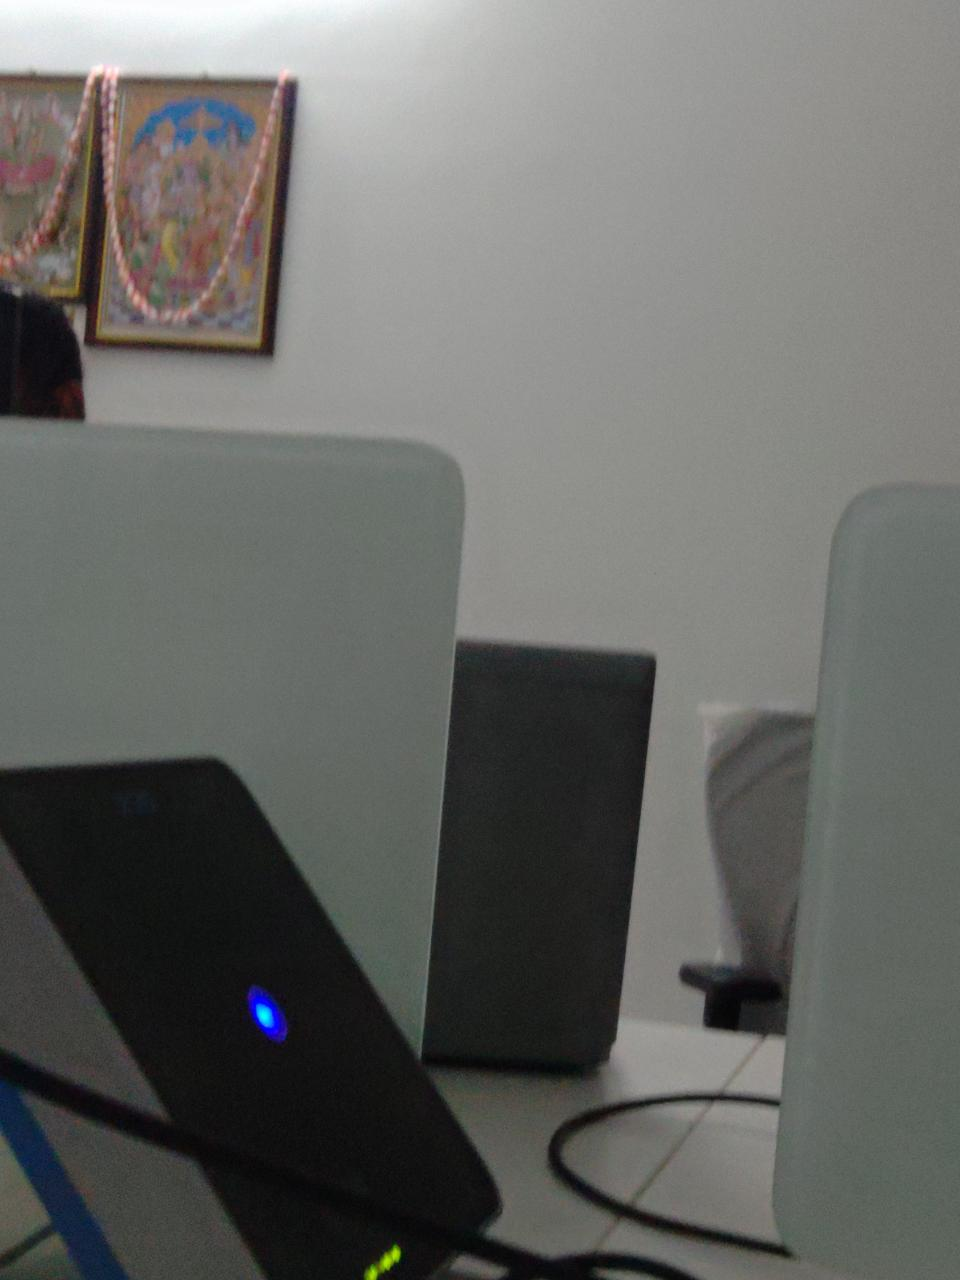
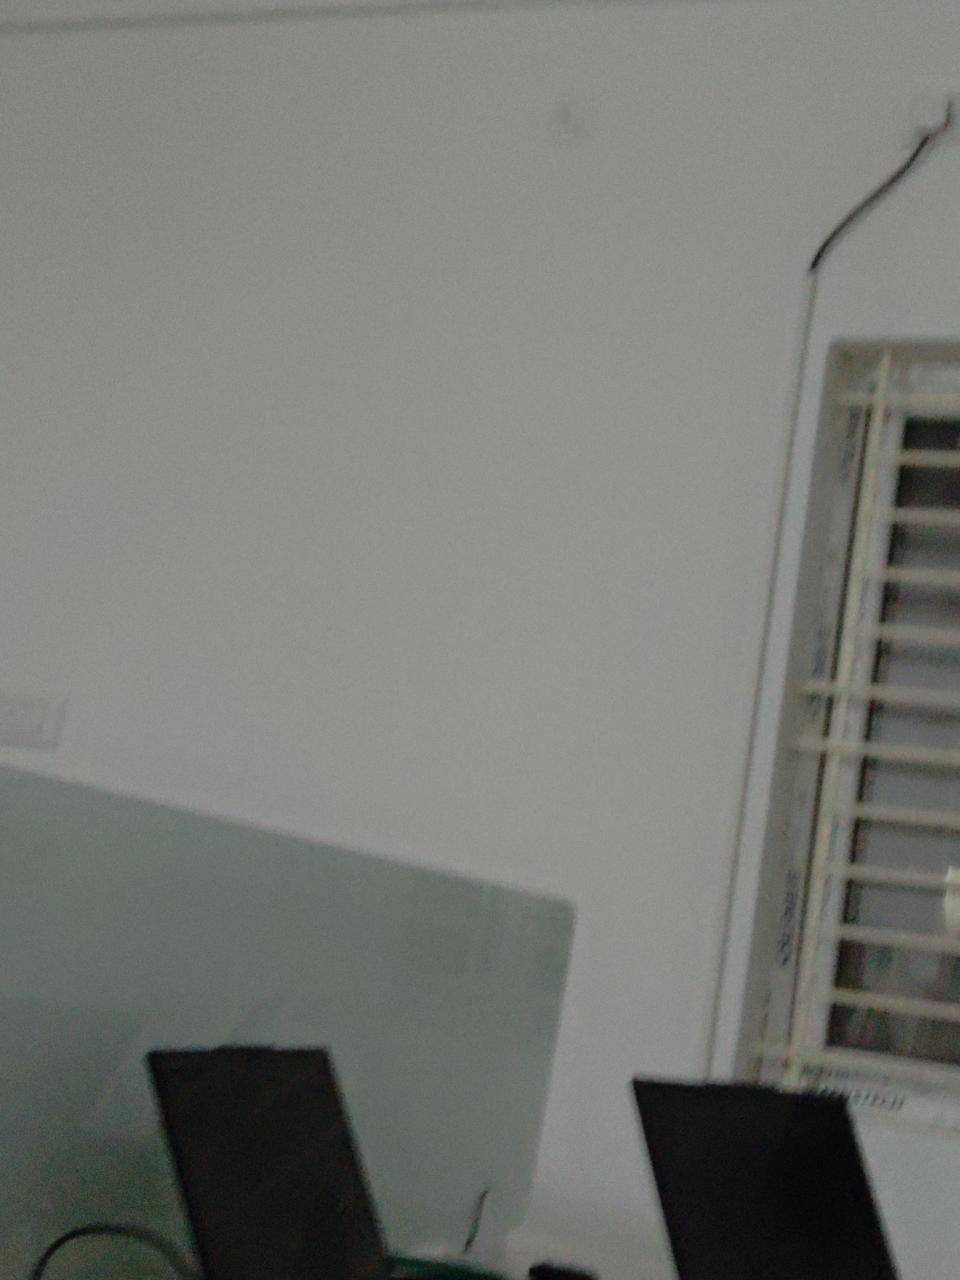
removed the static data in dashboard

diff --git a/frontend/src/components/dashboard/SevenDayStackedTransactionsChart.tsx b/frontend/src/components/dashboard/SevenDayStackedTransactionsChart.tsx
@@ -10,19 +10,29 @@ import { useAppTheme } from '../../context/ThemeContext';
 
 const { Option } = Select;
 
-// Distinct harmonious color palette for Material Codes
-const MATERIAL_COLOR_MAP: Record<string, { color: string; label: string }> = {
-  'WAK-MAT-787208': { color: '#E53935', label: 'Orthopaedic King Mattress' },
-  'WAK-SOF-NAP-3ST': { color: '#1E3A5F', label: 'Napper 3-Seater Sofa' },
-  'WAK-REC-MOT-BRN': { color: '#D97706', label: 'Motorized Single Recliner' },
-  'WAK-BED-TEK-QN': { color: '#8B5CF6', label: 'Teak Wood Queen Bed' },
-  'WAK-PIL-MEM-STD': { color: '#0284C7', label: 'Cooling Gel Memory Pillow' },
-  'WAK-MAT-727206': { color: '#10B981', label: 'Orthopaedic Queen Mattress' },
-  'WAK-MAT-756006': { color: '#EC4899', label: 'Dual Comfort Foam Mattress' },
-  'WAK-SOF-CHS-3ST': { color: '#6366F1', label: 'Chesterfield Velvet Sofa' },
-};
+// Distinct harmonious color palette for dynamically assigning colors to any material code
+const COLOR_PALETTE = [
+  '#E53935', '#1E3A5F', '#D97706', '#8B5CF6', 
+  '#0284C7', '#10B981', '#EC4899', '#6366F1',
+  '#F59E0B', '#14B8A6', '#84CC16', '#A855F7',
+  '#06B6D4', '#F43F5E', '#3B82F6', '#64748B'
+];
 
-const DEFAULT_COLOR = '#64748B';
+function getMaterialMeta(materialCode: string, masterDataList: any[]) {
+  const item = masterDataList.find(m => m.materialCode === materialCode);
+  const label = item?.productDescription || item?.model || item?.productName || materialCode;
+  
+  // Deterministic color assignment based on hash of material code
+  let hash = 0;
+  for (let i = 0; i < materialCode.length; i++) {
+    hash = materialCode.charCodeAt(i) + ((hash << 5) - hash);
+  }
+  const colorIndex = Math.abs(hash) % COLOR_PALETTE.length;
+  return {
+    color: COLOR_PALETTE[colorIndex],
+    label,
+  };
+}
 
 export const SevenDayStackedTransactionsChart: React.FC = () => {
   const { marriedTransactions, masterData } = useData();
@@ -43,7 +53,7 @@ export const SevenDayStackedTransactionsChart: React.FC = () => {
     return Array.from(codes);
   }, [masterData, marriedTransactions]);
 
-  // Generate 7 Days data array ending on today
+  // Generate 7 Days data array ending on today strictly from real transactions
   const sevenDayData = useMemo(() => {
     const days: {
       dateStr: string;        // '2026-08-31'
@@ -54,17 +64,6 @@ export const SevenDayStackedTransactionsChart: React.FC = () => {
       totalTransactions: number;
     }[] = [];
 
-    // Pre-calculated realistic baseline distribution per day for rich multi-day trends
-    const baselineDistribution: Record<number, Record<string, number>> = {
-      6: { 'WAK-MAT-787208': 68, 'WAK-SOF-NAP-3ST': 45, 'WAK-REC-MOT-BRN': 32, 'WAK-BED-TEK-QN': 28, 'WAK-PIL-MEM-STD': 25, 'WAK-MAT-727206': 18 },
-      5: { 'WAK-MAT-787208': 74, 'WAK-SOF-NAP-3ST': 52, 'WAK-REC-MOT-BRN': 38, 'WAK-BED-TEK-QN': 31, 'WAK-PIL-MEM-STD': 29, 'WAK-MAT-727206': 22 },
-      4: { 'WAK-MAT-787208': 82, 'WAK-SOF-NAP-3ST': 58, 'WAK-REC-MOT-BRN': 41, 'WAK-BED-TEK-QN': 36, 'WAK-PIL-MEM-STD': 34, 'WAK-MAT-727206': 26 },
-      3: { 'WAK-MAT-787208': 65, 'WAK-SOF-NAP-3ST': 48, 'WAK-REC-MOT-BRN': 30, 'WAK-BED-TEK-QN': 25, 'WAK-PIL-MEM-STD': 20, 'WAK-MAT-727206': 15 },
-      2: { 'WAK-MAT-787208': 89, 'WAK-SOF-NAP-3ST': 62, 'WAK-REC-MOT-BRN': 45, 'WAK-BED-TEK-QN': 40, 'WAK-PIL-MEM-STD': 38, 'WAK-MAT-727206': 30 },
-      1: { 'WAK-MAT-787208': 94, 'WAK-SOF-NAP-3ST': 67, 'WAK-REC-MOT-BRN': 48, 'WAK-BED-TEK-QN': 44, 'WAK-PIL-MEM-STD': 42, 'WAK-MAT-727206': 33 },
-      0: { 'WAK-MAT-787208': 78, 'WAK-SOF-NAP-3ST': 56, 'WAK-REC-MOT-BRN': 42, 'WAK-BED-TEK-QN': 38, 'WAK-PIL-MEM-STD': 32, 'WAK-MAT-727206': 25 },
-    };
-
     for (let i = 6; i >= 0; i--) {
       const d = dayjs().subtract(i, 'day');
       const dateStr = d.format('YYYY-MM-DD');
@@ -72,12 +71,13 @@ export const SevenDayStackedTransactionsChart: React.FC = () => {
       const dayName = d.format('ddd');
       const isToday = i === 0;
 
-      // Start with baseline counts
-      const counts: Record<string, number> = { ...(baselineDistribution[i] || {}) };
+      // Start with empty counts - strictly calculated from real database transactions
+      const counts: Record<string, number> = {};
 
       // Integrate real-time live married transactions into the matching day's bucket
       marriedTransactions.forEach(txn => {
-        const txnDate = txn.timestamp.split(' ')[0];
+        if (!txn.timestamp) return;
+        const txnDate = txn.timestamp.split('T')[0].split(' ')[0];
         if (txnDate === dateStr && txn.materialCode) {
           counts[txn.materialCode] = (counts[txn.materialCode] || 0) + 1;
         }
@@ -105,9 +105,12 @@ export const SevenDayStackedTransactionsChart: React.FC = () => {
   }, [marriedTransactions, selectedMaterial]);
 
   const maxDayValue = useMemo(() => {
-    const highest = Math.max(...sevenDayData.map(d => d.totalTransactions), 10);
-    // Round up to nice number
-    return Math.ceil(highest / 50) * 50;
+    const highest = Math.max(...sevenDayData.map(d => d.totalTransactions), 0);
+    if (highest === 0) return 10;
+    if (highest <= 10) return 10;
+    if (highest <= 20) return 20;
+    if (highest <= 50) return 50;
+    return Math.ceil(highest / 20) * 20;
   }, [sevenDayData]);
 
   // Chart Y-Axis Scale Marks
@@ -153,14 +156,14 @@ export const SevenDayStackedTransactionsChart: React.FC = () => {
           <div>
             <div style={{ display: 'flex', alignItems: 'center', gap: '8px' }}>
               <span style={{ fontSize: '16px', fontWeight: 800, color: isDark ? '#f8fafc' : '#0f172a' }}>
-                Day-wise FG Dispatch Transactions (Last 7 Days)
+                Day-wise FG Transactions (Last 7 Days)
               </span>
               <Tag color="red" style={{ fontWeight: 700, borderRadius: '12px', fontSize: '10px' }}>
-                LIVE TREND
+                LIVE DATABASE
               </Tag>
             </div>
             <div style={{ fontSize: '11px', color: '#64748b', marginTop: '2px' }}>
-              Finished goods dispatch transactions breakdown across material codes.
+              Finished goods verified scan transactions breakdown across material codes.
             </div>
           </div>
         </div>
@@ -184,7 +187,7 @@ export const SevenDayStackedTransactionsChart: React.FC = () => {
               <strong>All Material Codes (Stacked View)</strong>
             </Option>
             {availableMaterialCodes.map(code => {
-              const meta = MATERIAL_COLOR_MAP[code] || { color: DEFAULT_COLOR, label: code };
+              const meta = getMaterialMeta(code, masterData);
               return (
                 <Option key={code} value={code}>
                   <div style={{ display: 'flex', alignItems: 'center', gap: '8px' }}>
@@ -283,19 +286,23 @@ export const SevenDayStackedTransactionsChart: React.FC = () => {
                 </div>
                 <div style={{ fontSize: '11px', display: 'flex', flexDirection: 'column', gap: '4px' }}>
                   {selectedMaterial === 'ALL' ? (
-                    Object.entries(day.materialCounts).map(([mat, count]) => {
-                      const meta = MATERIAL_COLOR_MAP[mat] || { color: DEFAULT_COLOR, label: mat };
-                      const pct = day.totalTransactions > 0 ? Math.round((count / day.totalTransactions) * 100) : 0;
-                      return (
-                        <div key={mat} style={{ display: 'flex', justifyContent: 'space-between', alignItems: 'center' }}>
-                          <div style={{ display: 'flex', alignItems: 'center', gap: '6px' }}>
-                            <span style={{ width: '8px', height: '8px', borderRadius: '2px', backgroundColor: meta.color }} />
-                            <span>{mat}</span>
+                    Object.entries(day.materialCounts).length > 0 ? (
+                      Object.entries(day.materialCounts).map(([mat, count]) => {
+                        const meta = getMaterialMeta(mat, masterData);
+                        const pct = day.totalTransactions > 0 ? Math.round((count / day.totalTransactions) * 100) : 0;
+                        return (
+                          <div key={mat} style={{ display: 'flex', justifyContent: 'space-between', alignItems: 'center' }}>
+                            <div style={{ display: 'flex', alignItems: 'center', gap: '6px' }}>
+                              <span style={{ width: '8px', height: '8px', borderRadius: '2px', backgroundColor: meta.color }} />
+                              <span>{mat}</span>
+                            </div>
+                            <strong>{count} ({pct}%)</strong>
                           </div>
-                          <strong>{count} ({pct}%)</strong>
-                        </div>
-                      );
-                    })
+                        );
+                      })
+                    ) : (
+                      <span style={{ color: '#94a3b8' }}>No scans recorded on this day</span>
+                    )
                   ) : (
                     <div style={{ display: 'flex', justifyContent: 'space-between' }}>
                       <span>{selectedMaterial}:</span>
@@ -305,6 +312,8 @@ export const SevenDayStackedTransactionsChart: React.FC = () => {
                 </div>
               </div>
             );
+
+            const selectedMeta = getMaterialMeta(selectedMaterial, masterData);
 
             return (
               <Tooltip key={day.dateStr} title={tooltipContent} color="#0f172a">
@@ -352,7 +361,7 @@ export const SevenDayStackedTransactionsChart: React.FC = () => {
                       // Stacked Segments
                       Object.entries(day.materialCounts).map(([mat, count]) => {
                         const segHeightPct = day.totalTransactions > 0 ? (count / day.totalTransactions) * 100 : 0;
-                        const meta = MATERIAL_COLOR_MAP[mat] || { color: DEFAULT_COLOR, label: mat };
+                        const meta = getMaterialMeta(mat, masterData);
                         return (
                           <div
                             key={mat}
@@ -372,7 +381,7 @@ export const SevenDayStackedTransactionsChart: React.FC = () => {
                         style={{
                           height: '100%',
                           width: '100%',
-                          backgroundColor: MATERIAL_COLOR_MAP[selectedMaterial]?.color || '#E53935',
+                          backgroundColor: selectedMeta.color || '#E53935',
                         }}
                       />
                     )}

diff --git a/frontend/src/components/layout/HeaderBar.tsx b/frontend/src/components/layout/HeaderBar.tsx
@@ -2,11 +2,7 @@ import React, { useState } from 'react';
 import { 
   Button, 
   Space, 
-  Tag, 
   Tooltip, 
-  Badge, 
-  Popover, 
-  List, 
   Modal 
 } from 'antd';
 import { 
@@ -14,16 +10,11 @@ import {
   MenuFoldOutlined, 
   BulbOutlined, 
   BulbFilled, 
-  BellOutlined, 
   LogoutOutlined, 
-  CheckCircleTwoTone,
-  ExclamationCircleOutlined,
   SafetyCertificateFilled,
-  WifiOutlined
 } from '@ant-design/icons';
 import { useAuth } from '../../context/AuthContext';
 import { useAppTheme } from '../../context/ThemeContext';
-import { useData } from '../../context/DataContext';
 
 interface HeaderBarProps {
   collapsed: boolean;
@@ -42,33 +33,8 @@ export const HeaderBar: React.FC<HeaderBarProps> = ({
 }) => {
   const { currentRole, logout } = useAuth();
   const { isDark, toggleTheme } = useAppTheme();
-  const { stats, devices } = useData();
 
   const [isLogoutModalVisible, setIsLogoutModalVisible] = useState(false);
-
-  const notifications = [
-    {
-      id: '1',
-      title: 'CIPHER RS38 Handheld #01 Connected',
-      desc: 'Line 1 UHF reader active and ready for FG label scanning.',
-      time: '2 mins ago',
-      icon: <WifiOutlined style={{ color: '#10B981' }} />,
-    },
-    {
-      id: '2',
-      title: 'Zebra ZT411 Inlay Verification',
-      desc: '100% RFID EPC parity achieved on Batch BATCH-2026-0831-A.',
-      time: '15 mins ago',
-      icon: <CheckCircleTwoTone twoToneColor="#10B981" />,
-    },
-    {
-      id: '3',
-      title: 'Periodic Backup Complete',
-      desc: 'Master SKU catalog synchronised with factory ERP database.',
-      time: '1 hr ago',
-      icon: <ExclamationCircleOutlined style={{ color: '#0284C7' }} />,
-    },
-  ];
 
   const getPageTitle = (key: string) => {
     switch (key) {
@@ -99,33 +65,6 @@ export const HeaderBar: React.FC<HeaderBarProps> = ({
     setIsLogoutModalVisible(false);
     logout();
   };
-
-  const notificationContent = (
-    <div style={{ width: '320px', maxWidth: '90vw' }}>
-      <div style={{ display: 'flex', justifyContent: 'space-between', alignItems: 'center', paddingBottom: '8px', borderBottom: '1px solid #e2e8f0', marginBottom: '8px' }}>
-        <strong>Hardware & System Alerts</strong>
-        <Tag color="blue">{notifications.length} New</Tag>
-      </div>
-      <List
-        size="small"
-        dataSource={notifications}
-        renderItem={item => (
-          <List.Item style={{ padding: '8px 0', borderBottom: '1px solid #f1f5f9' }}>
-            <List.Item.Meta
-              avatar={item.icon}
-              title={<span style={{ fontSize: '12px', fontWeight: 600 }}>{item.title}</span>}
-              description={
-                <div>
-                  <div style={{ fontSize: '11px', color: '#64748b' }}>{item.desc}</div>
-                  <div style={{ fontSize: '10px', color: '#94a3b8', marginTop: '2px' }}>{item.time}</div>
-                </div>
-              }
-            />
-          </List.Item>
-        )}
-      />
-    </div>
-  );
 
   return (
     <div

diff --git a/frontend/src/context/DataContext.tsx b/frontend/src/context/DataContext.tsx
@@ -18,6 +18,7 @@ import {
 } from '../mock/initialData';
 import { MasterDataApi, DevicesApi, TransactionsApi, getProductImageByMaterial } from '../services/api';
 import { getCurrentIST } from '../utils/dateUtils';
+import dayjs from 'dayjs';
 
 interface DataContextType {
   // Master Data
@@ -483,6 +484,14 @@ export const DataProvider: React.FC<{ children: React.ReactNode }> = ({ children
   const passedValidations = validations.filter(v => v.result === 'PASS').length;
   const passRate = validations.length > 0 ? (passedValidations / validations.length) * 100 : 100;
 
+  const todayStr = dayjs().format('YYYY-MM-DD');
+  const marriedToday = marriedTransactions.filter(t => {
+    if (!t.timestamp) return false;
+    const tDate = t.timestamp.split('T')[0].split(' ')[0];
+    return tDate === todayStr;
+  });
+  const dispatchedToday = marriedToday.filter(t => t.status === 'Dispatched');
+
   const stats = {
     totalMasterItems: masterData.length,
     totalActiveDevices: onlineDevicesCount,
@@ -493,8 +502,8 @@ export const DataProvider: React.FC<{ children: React.ReactNode }> = ({ children
     labelsTodayCount: labels.reduce((acc, l) => acc + l.printedCopies, 0),
     validationPassRate: Number(passRate.toFixed(1)),
     totalValidationsToday: validations.length,
-    totalMarriedToday: marriedTransactions.length,
-    dispatchedTodayCount: marriedTransactions.filter(t => t.status === 'Dispatched').length,
+    totalMarriedToday: marriedToday.length,
+    dispatchedTodayCount: dispatchedToday.length,
   };
 
   return (
